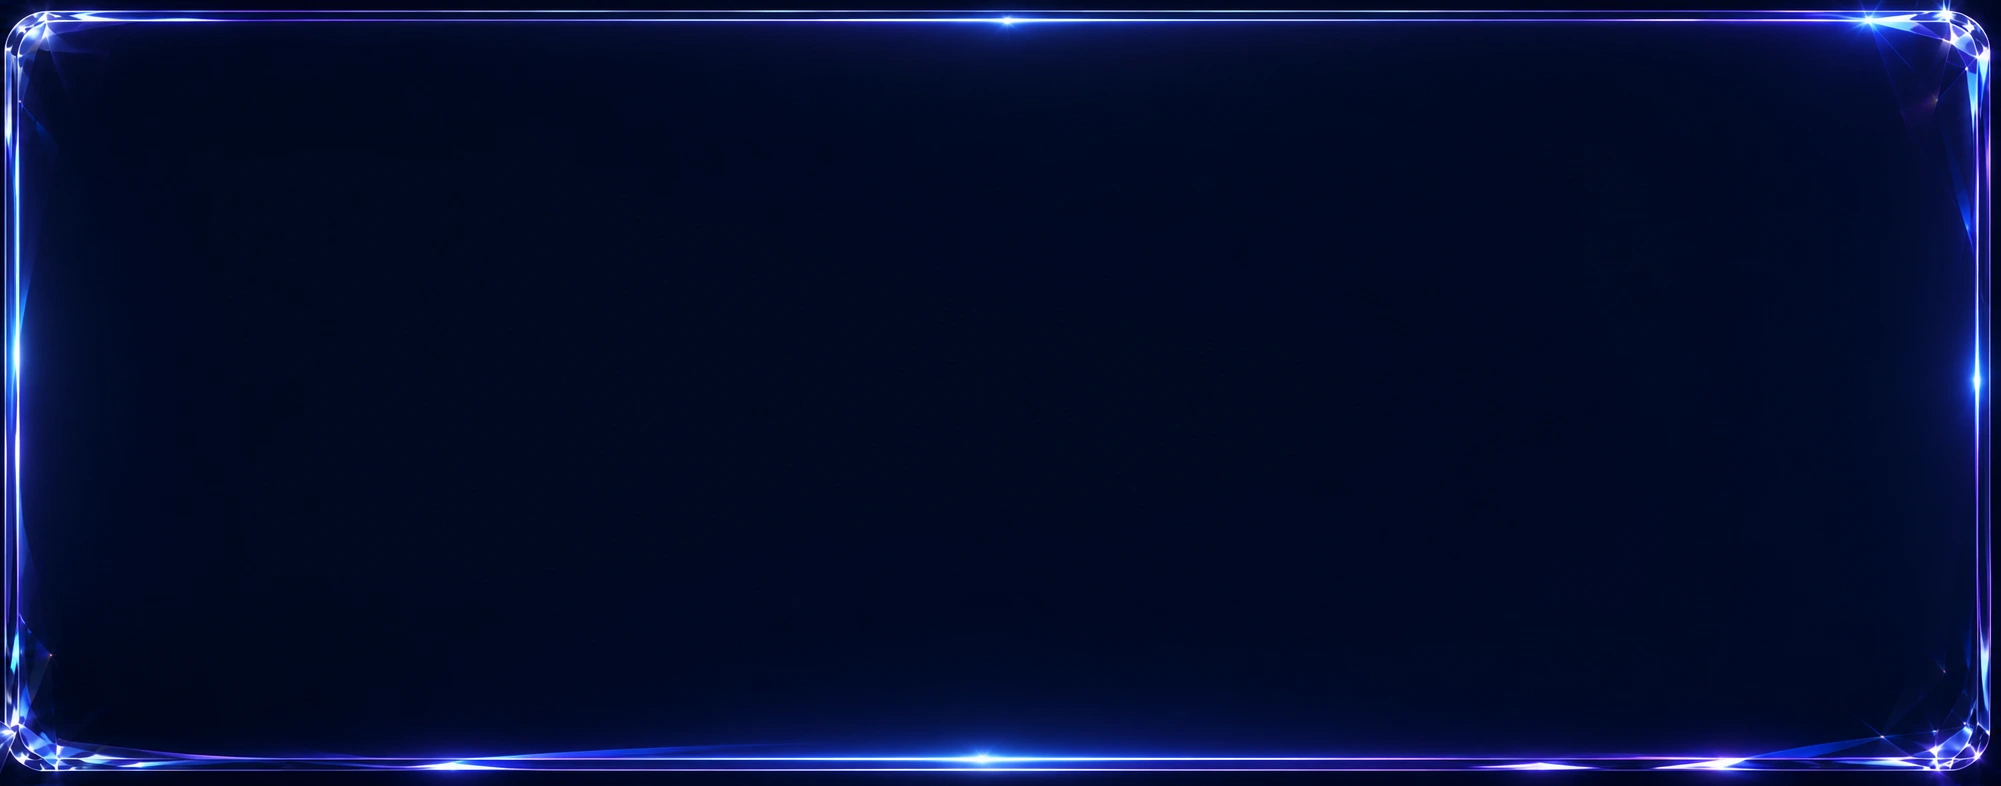
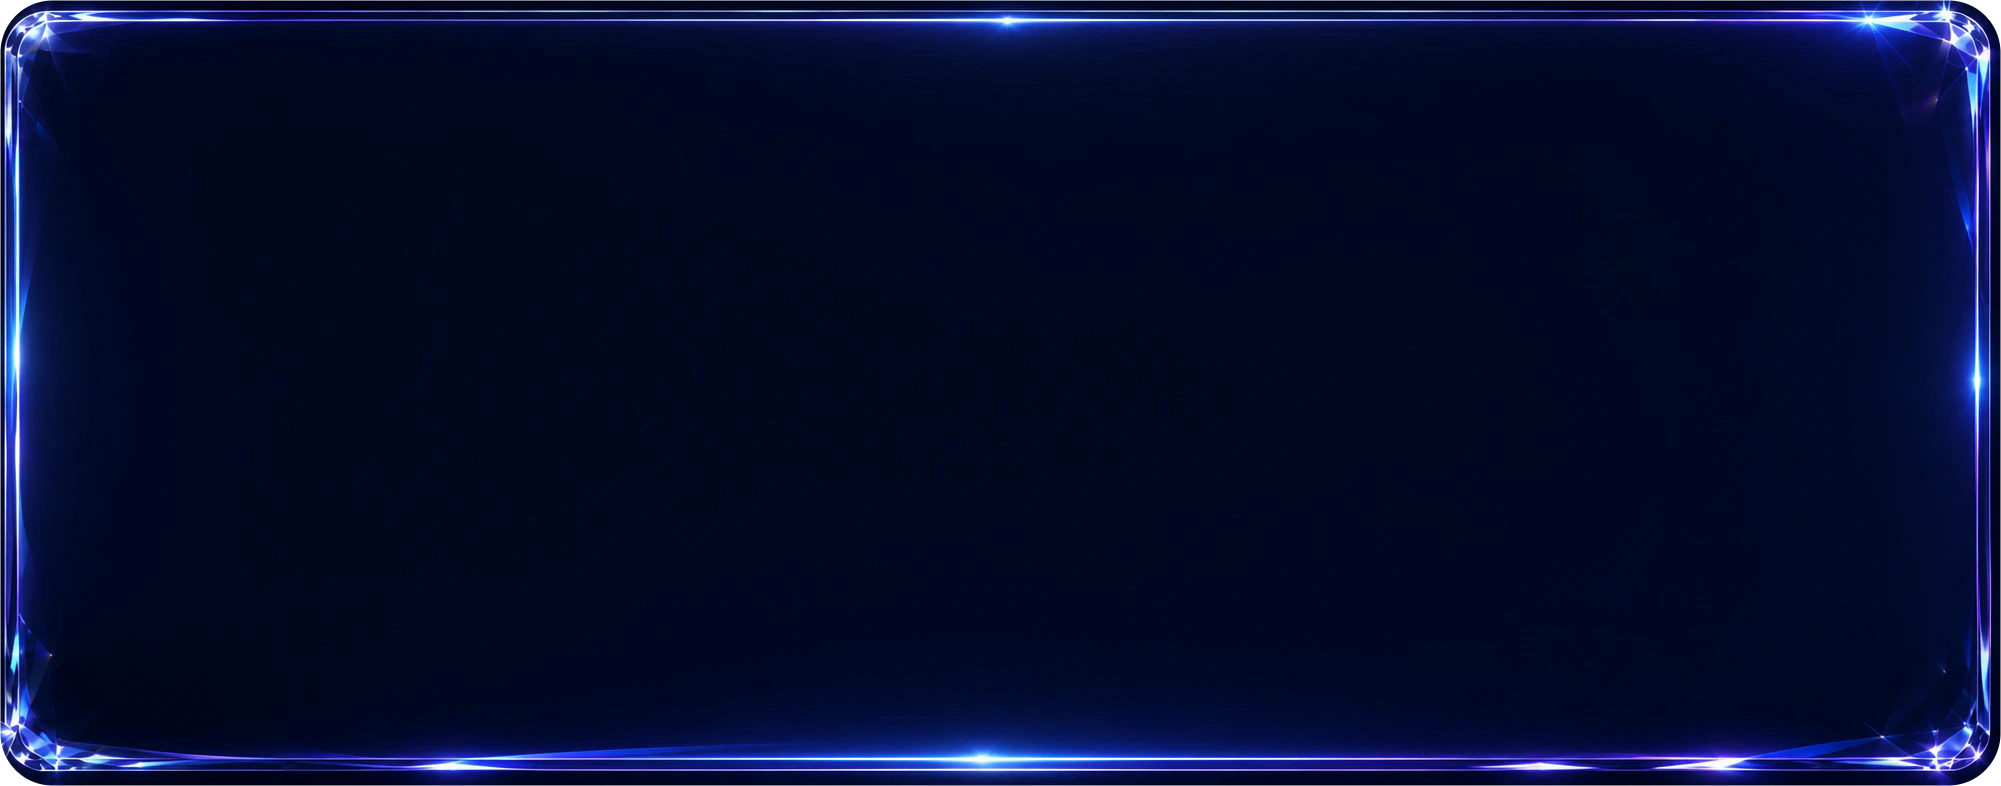
菜单不超出浏览器

diff --git a/apps/uniauth/backend/src/main/resources/static/sel/components/grid/selGridMenu.js b/apps/uniauth/backend/src/main/resources/static/sel/components/grid/selGridMenu.js
@@ -80,6 +80,8 @@
             state.activeSubmenuId = null;
             if (submenu) {
                 submenu.classList.remove("selgrid-menu-open");
+                // 关闭时清除动态翻转状态，确保下次展开重新按当前面板空间计算方向。
+                submenu.classList.remove("selgrid-menu-submenu-flip");
             }
             menuRoot.querySelectorAll('.selgrid-menu-item[aria-haspopup="menu"]').forEach((button) => button.setAttribute("aria-expanded", "false"));
         }
@@ -98,6 +100,22 @@
             const top = trigger.offsetTop - (viewport ? viewport.scrollTop : 0) - 5;
             submenu.style.setProperty("--selgrid-menu-submenu-top", `${top}px`);
             submenu.classList.add("selgrid-menu-open");
+            // 二级菜单优先向右展开；所属水晶面板右侧空间不足且左侧更宽时翻向左侧，避免越出边框。
+            const selGridPanelBounds = gridRoot.closest(".selpanel-shell")?.getBoundingClientRect();
+            // 当前一级菜单边界用于计算两侧实际剩余空间。
+            const selGridMenuBounds = menuRoot.getBoundingClientRect();
+            // 二级菜单已显示后读取真实宽度，避免依赖重复的样式常量。
+            const selGridSubmenuWidth = submenu.getBoundingClientRect().width;
+            // 没有面板宿主时回退到浏览器可视区域，保证基础控件可独立使用。
+            const selGridBoundaryLeft = selGridPanelBounds ? selGridPanelBounds.left : 0;
+            // 面板右边界或当前视口宽度是二级菜单不得越过的实际边界。
+            const selGridBoundaryRight = selGridPanelBounds ? selGridPanelBounds.right : window.innerWidth;
+            // 右侧空间包含一级菜单与二级菜单预留的 8px 搭接宽度。
+            const selGridRightSpace = selGridBoundaryRight - selGridMenuBounds.right + 8;
+            // 左侧空间同样保留搭接宽度，确保翻转后的视觉连接不发生断层。
+            const selGridLeftSpace = selGridMenuBounds.left - selGridBoundaryLeft + 8;
+            // 右侧放不下且左侧更适合承载完整二级菜单时才翻转，避免无必要的方向跳变。
+            submenu.classList.toggle("selgrid-menu-submenu-flip", selGridRightSpace < selGridSubmenuWidth && selGridLeftSpace > selGridRightSpace);
         }
 
         // 按当前实例配置重绘一级和二级菜单容器。

diff --git a/apps/uniauth/backend/src/main/resources/static/sel/components/grid/selGrid.js b/apps/uniauth/backend/src/main/resources/static/sel/components/grid/selGrid.js
@@ -923,17 +923,12 @@
 
     // 页面首次加载立即渲染参考图默认状态。
     selGridRenderTable();
-    // 默认把菜单绑定到后端初始选择的第一条记录，便于直接检查菜单状态。
+    // 初始页面不展示行操作菜单，避免未由用户触发的菜单遮挡表格右侧内容。
     if (selGridMenuController) {
-        // 从 selectedIds 查找后端指定默认记录，不写死主键或项目名称。
-        const selGridInitialMenuProject = selGridProjects.find((selGridProject) => selGridState.selectedIds.has(selGridProject.id));
-        // 后端确实提供默认选择记录时才打开菜单。
-        if (selGridInitialMenuProject) {
-            // 菜单只接收主键和名称，不复制完整行对象。
-            selGridMenuController.open({ projectId: selGridInitialMenuProject.id, projectName: selGridInitialMenuProject.name });
-            // 初始打开后同步对应行更多按钮高亮。
-            selGridSyncMenuButtonStates();
-        }
+        // 显式关闭菜单并清空绑定记录，使默认选中行不会自动触发行操作浮层。
+        selGridMenuController.close();
+        // 关闭后的更多按钮同步回未展开状态，保持可访问语义和视觉状态一致。
+        selGridSyncMenuButtonStates();
     }
 
     // 公开重置方法优先复用当前实例按钮逻辑，没有工具栏时直接恢复内部状态。

diff --git a/apps/uniauth/backend/src/main/resources/static/sel/components/grid/selGridMenu.css b/apps/uniauth/backend/src/main/resources/static/sel/components/grid/selGridMenu.css
@@ -194,6 +194,12 @@
     filter: drop-shadow(0 0 11px rgba(65, 119, 255, 0.72));
 }
 
+/* 右侧空间不足时由菜单脚本追加翻转状态，使二级菜单留在所属水晶面板边框内。 */
+.selgrid-menu-submenu.selgrid-menu-submenu-flip {
+    right: calc(100% - 8px);
+    left: auto;
+}
+
 .selgrid-menu-submenu.selgrid-menu-open {
     display: block;
 }

diff --git a/apps/uniauth/backend/src/main/resources/static/sel/components/grid/selGrid.css b/apps/uniauth/backend/src/main/resources/static/sel/components/grid/selGrid.css
@@ -109,7 +109,7 @@
 
 .selgrid-table th {
     position: relative;
-    padding: 0 18px;
+    padding: 0 12px;
     color: #e6e8ff;
     font-size: 14px;
     font-weight: 600;
@@ -238,7 +238,7 @@
 }
 
 .selgrid-table tbody td:nth-child(2) {
-    padding-left: 10px;
+    padding-left: 12px;
 }
 
 .selgrid-project-symbol {
